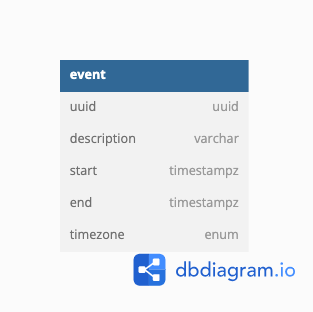
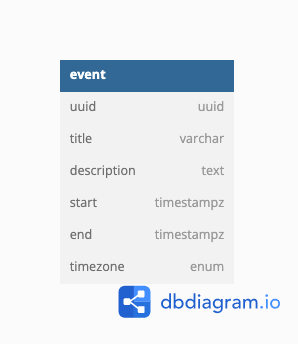
[🔨Feature / Fonctionnalité] event Entity implemented / Implementation de l'Entity event

diff --git a/kmj-test-be/src/resource/event/entities/event.entity.ts b/kmj-test-be/src/resource/event/entities/event.entity.ts
@@ -1,1 +1,25 @@
-export class Event {}
+import { UUID } from "crypto";
+import { Column, Entity, PrimaryGeneratedColumn } from "typeorm";
+import { Timezone } from "../utils/enum.utils";
+
+@Entity('event')
+export class Event {
+
+    @PrimaryGeneratedColumn('uuid')
+    uuid: UUID;
+
+    @Column('varchar', {name: 'title', length: 255, nullable : false})
+    title: string;
+
+    @Column('text', {name: 'description', nullable : false})
+    description: string;
+
+    @Column('timestamptz', {'name': 'start', nullable : false})
+    start: Date;
+
+    @Column('timestamptz', {'name': 'end', nullable : false})
+    end: Date;
+
+    @Column('enum', {'name': 'timezone', 'enum': Timezone, 'default': Timezone.GMT, nullable : false})
+    timezone: Timezone;
+}

diff --git a/kmj-test-be/src/resource/event/utils/enum.utils.ts b/kmj-test-be/src/resource/event/utils/enum.utils.ts
@@ -1,0 +1,27 @@
+export enum Timezone {
+    GMT = 'GMT',
+    GMT_PLUS_1 = 'GMT+1',
+    GMT_PLUS_2 = 'GMT+2',
+    GMT_PLUS_3 = 'GMT+3',
+    GMT_PLUS_4 = 'GMT+4',
+    GMT_PLUS_5 = 'GMT+5',
+    GMT_PLUS_6 = 'GMT+6',
+    GMT_PLUS_7 = 'GMT+7',
+    GMT_PLUS_8 = 'GMT+8',
+    GMT_PLUS_9 = 'GMT+9',
+    GMT_PLUS_10 = 'GMT+10',
+    GMT_PLUS_11 = 'GMT+11',
+    GMT_PLUS_12 = 'GMT+12',
+    GMT_MINUS_1 = 'GMT-1',
+    GMT_MINUS_2 = 'GMT-2',
+    GMT_MINUS_3 = 'GMT-3',
+    GMT_MINUS_4 = 'GMT-4',
+    GMT_MINUS_5 = 'GMT-5',
+    GMT_MINUS_6 = 'GMT-6',
+    GMT_MINUS_7 = 'GMT-7',
+    GMT_MINUS_8 = 'GMT-8',
+    GMT_MINUS_9 = 'GMT-9',
+    GMT_MINUS_10 = 'GMT-10',
+    GMT_MINUS_11 = 'GMT-11',
+    GMT_MINUS_12 = 'GMT-12',
+}
